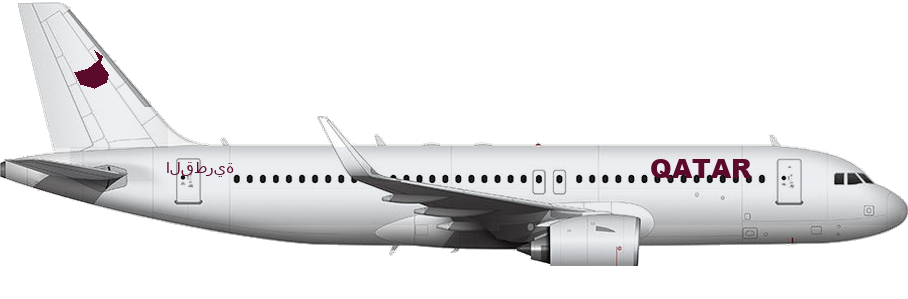
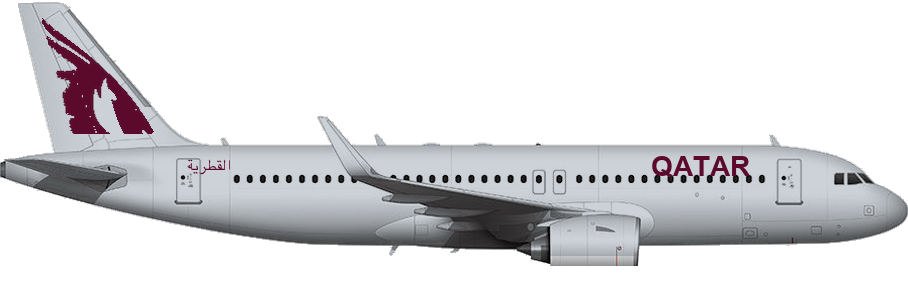
Repaint the Qatar A320 to match the oryx photo.

Changed region(s): [[0.0, 0.0, 1.0, 0.8729], [0.4934, 0.8127, 0.5242, 0.8428]]

diff --git a/flight-simulator-2026/index.html b/flight-simulator-2026/index.html
@@ -153,7 +153,7 @@
   <script src="js/input.js?v=hump38"></script>
   <script src="js/hud.js?v=hump38"></script>
   <script src="js/loading.js?v=hump38"></script>
-  <script src="js/game.js?v=a320liv6"></script>
+  <script src="js/game.js?v=a320liv7"></script>
   <script src="js/mobile.js?v=hump38"></script>
   <script src="js/menu.js?v=free1"></script>
   <script src="js/main.js"></script>

diff --git a/flight-simulator-2026/js/game.js b/flight-simulator-2026/js/game.js
@@ -70,7 +70,7 @@ class Game {
       const load = (file, key) => {
         const img = new Image();
         img.onload = () => { pack[key] = img; };
-        img.src = `${base}${file}?v=liv6`;
+        img.src = `${base}${file}?v=liv7`;
       };
       load(`${prefix}-gearup.png`, "up");
       load(`${prefix}-geardown.png`, "down");
